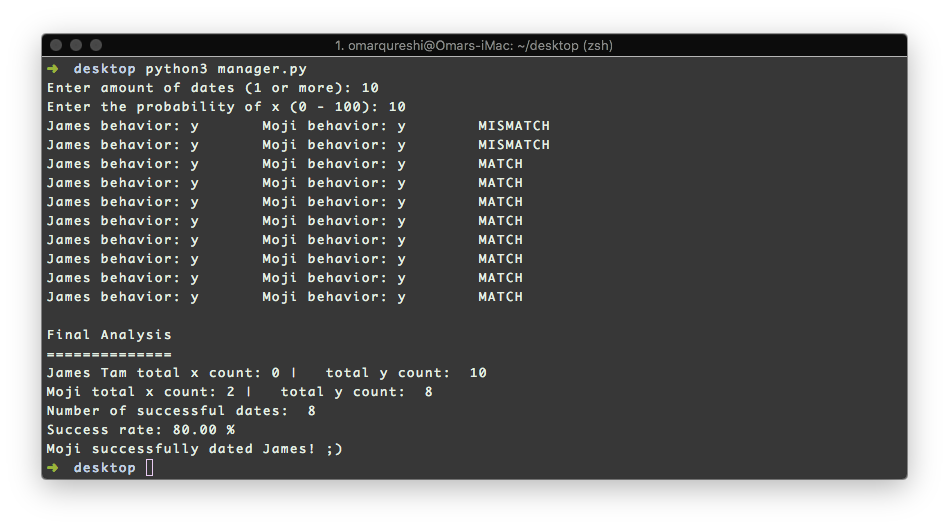
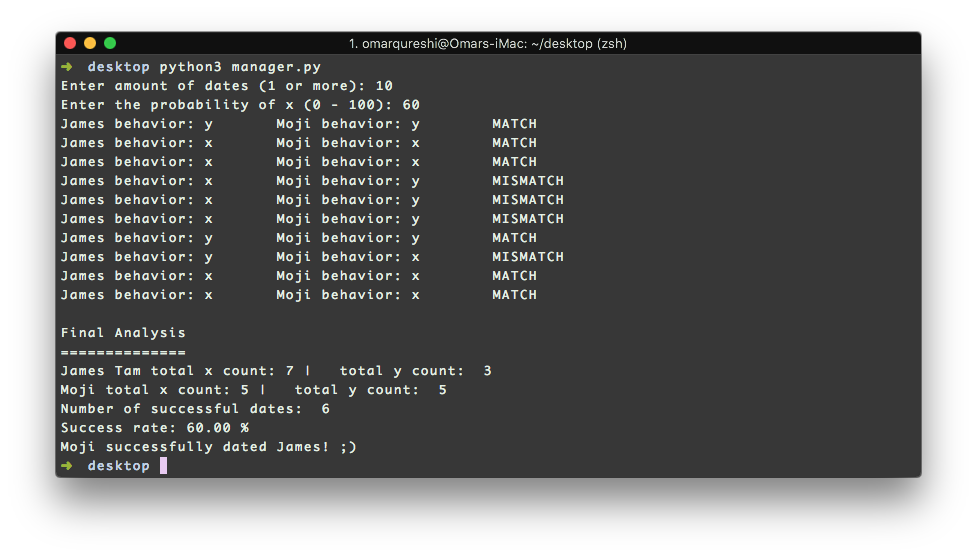
fixed bug

Changed region(s): [[0.0306, 0.0302, 0.9779, 0.9074], [0.4889, 0.2117, 0.5806, 0.5747]]

diff --git a/python_implementation/Pursuer.py b/python_implementation/Pursuer.py
@@ -71,7 +71,7 @@ class Pursuer:
             self.xyMismatch=self.xyMismatch+1#if there is an x-y mismatch, increases its x probability in following method
         
         elif targXBhvr==False and self.p_xGenerated==True:
-            print("James behavior: y       Moji behavior: y        MISMATCH")
+            print("James behavior: y       Moji behavior: x        MISMATCH")
             self.yxMismatch=self.yxMismatch+1#if there is a y-x mismatch, decreates x probability in following method
         
         elif targXBhvr==False and self.p_xGenerated==False:
